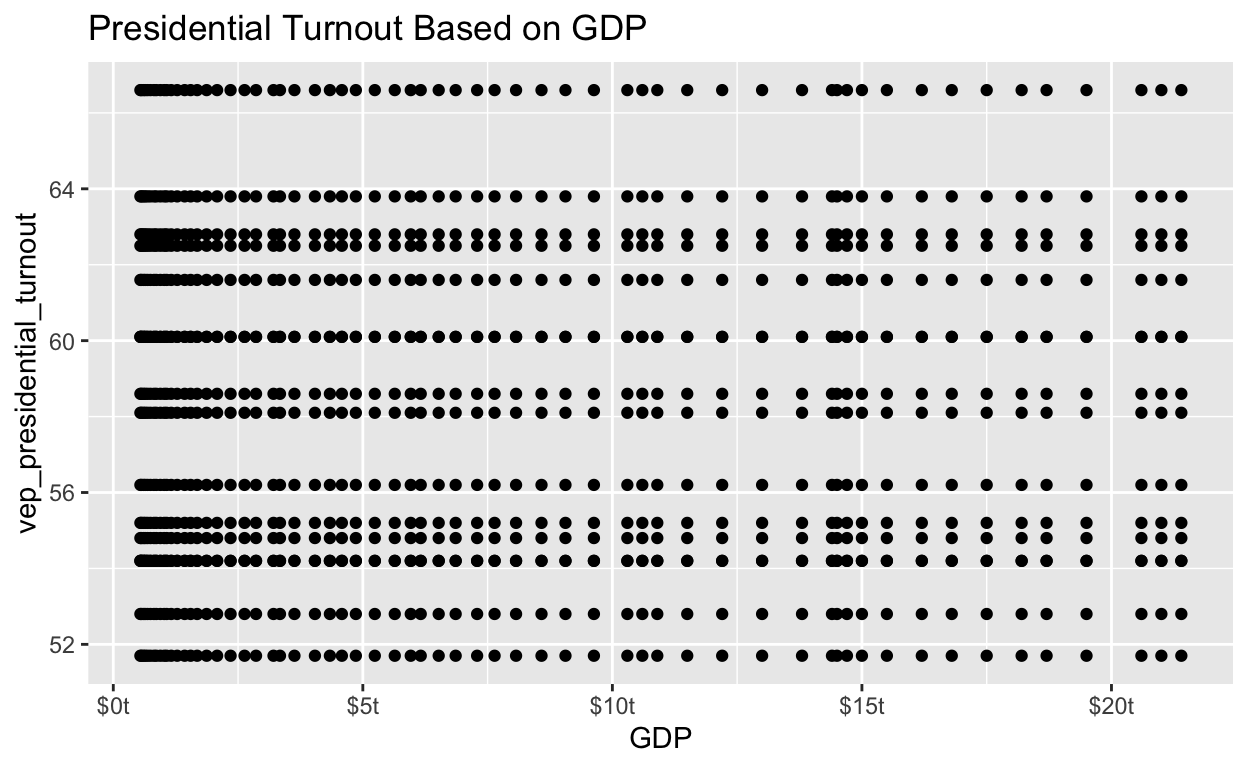
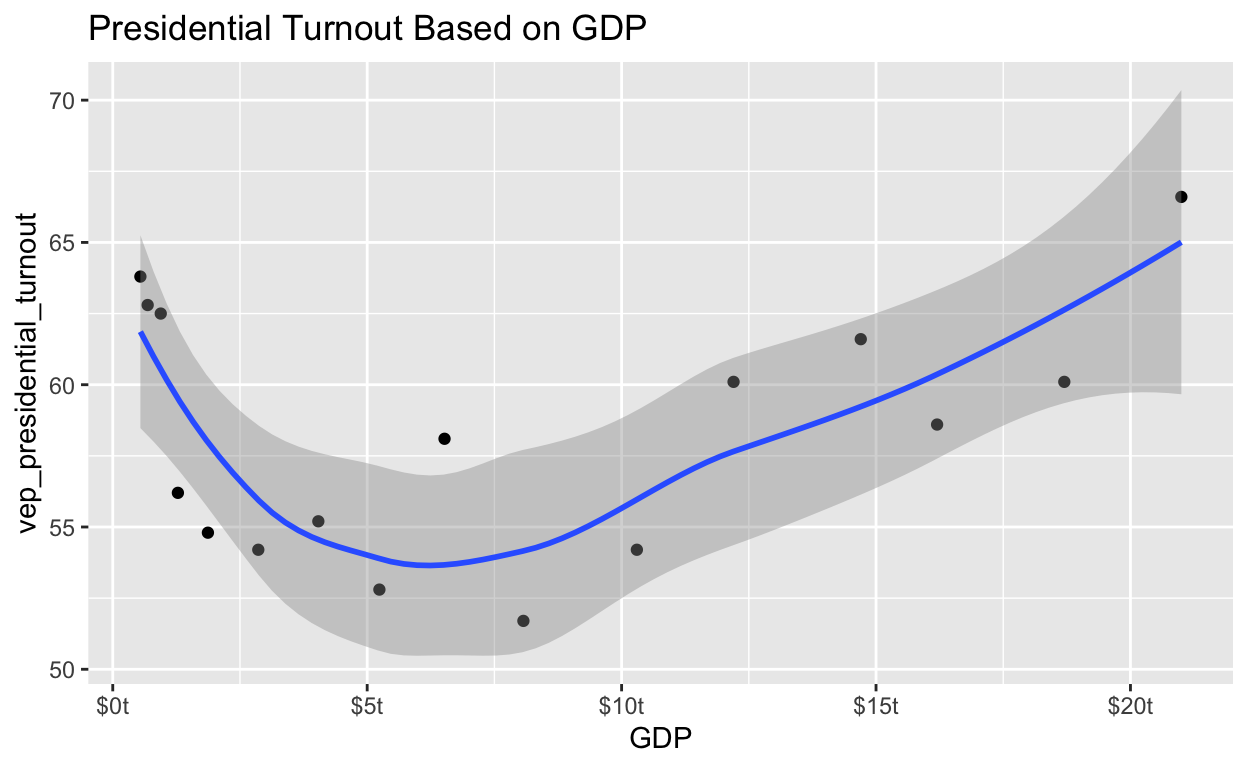
milestone 4 final commit

diff --git a/index.html b/index.html
@@ -1574,7 +1574,7 @@ code span.wa { color: #5e5e5e; font-style: italic; } /* Warning */
 </div>
 <div class="layout-chunk" data-layout="l-body">
 <div class="sourceCode">
-<pre class="sourceCode r"><code class="sourceCode r"><span><span class='co'># Pivoting GDP Data</span></span>
+<pre class="sourceCode r"><code class="sourceCode r"><span><span class='co'># Pivoting GDP Data to make Years rows</span></span>
 <span></span>
 <span><span class='va'>gdp_long</span> <span class='op'>&lt;-</span> <span class='va'>gdp</span> <span class='op'>|&gt;</span></span>
 <span>  <span class='fu'><a href='https://tidyr.tidyverse.org/reference/pivot_longer.html'>pivot_longer</a></span><span class='op'>(</span></span>
@@ -1605,8 +1605,11 @@ code span.wa { color: #5e5e5e; font-style: italic; } /* Warning */
 <div class="sourceCode">
 <pre class="sourceCode r"><code class="sourceCode r"><span><span class='co'>#Joining the Data</span></span>
 <span></span>
-<span><span class='va'>gdp_turnout</span> <span class='op'>&lt;-</span> <span class='va'>gdp_long</span> <span class='op'>|&gt;</span></span>
+<span><span class='va'>gdp_turnout</span> <span class='op'>&lt;-</span><span class='va'>gdp_long</span> <span class='op'>|&gt;</span></span>
 <span>  <span class='fu'><a href='https://dplyr.tidyverse.org/reference/cross_join.html'>cross_join</a></span><span class='op'>(</span><span class='va'>turnout</span><span class='op'>)</span></span>
+<span></span>
+<span><span class='va'>gdp_turnout_presidential</span> <span class='op'>&lt;-</span> <span class='va'>gdp_turnout</span> <span class='op'>|&gt;</span></span>
+<span>  <span class='fu'><a href='https://rdrr.io/r/base/subset.html'>subset</a></span><span class='op'>(</span><span class='va'>year</span> <span class='op'>==</span> <span class='va'>year_presidential</span><span class='op'>)</span></span>
 <span></span>
 <span><span class='va'>gdp_turnout</span></span></code></pre>
 </div>
@@ -1624,6 +1627,30 @@ code span.wa { color: #5e5e5e; font-style: italic; } /* Warning */
  9 United States USA           1960 543000000000              1992
 10 United States USA           1960 543000000000              1996
 # ℹ 966 more rows
+# ℹ 3 more variables: vep_presidential_turnout &lt;dbl&gt;,
+#   year_midterm &lt;dbl&gt;, vep_midterm_turnout &lt;dbl&gt;</code></pre>
+<div class="sourceCode">
+<pre class="sourceCode r"><code class="sourceCode r"><span><span class='va'>gdp_turnout_presidential</span></span></code></pre>
+</div>
+<pre><code># A tibble: 16 × 8
+   country_name  country_code  year     GDP year_presidential
+   &lt;chr&gt;         &lt;chr&gt;        &lt;int&gt;   &lt;dbl&gt;             &lt;dbl&gt;
+ 1 United States USA           1960 5.43e11              1960
+ 2 United States USA           1964 6.86e11              1964
+ 3 United States USA           1968 9.43e11              1968
+ 4 United States USA           1972 1.28e12              1972
+ 5 United States USA           1976 1.87e12              1976
+ 6 United States USA           1980 2.86e12              1980
+ 7 United States USA           1984 4.04e12              1984
+ 8 United States USA           1988 5.24e12              1988
+ 9 United States USA           1992 6.52e12              1992
+10 United States USA           1996 8.07e12              1996
+11 United States USA           2000 1.03e13              2000
+12 United States USA           2004 1.22e13              2004
+13 United States USA           2008 1.47e13              2008
+14 United States USA           2012 1.62e13              2012
+15 United States USA           2016 1.87e13              2016
+16 United States USA           2020 2.10e13              2020
 # ℹ 3 more variables: vep_presidential_turnout &lt;dbl&gt;,
 #   year_midterm &lt;dbl&gt;, vep_midterm_turnout &lt;dbl&gt;</code></pre>
 </div>
@@ -1647,9 +1674,13 @@ code span.wa { color: #5e5e5e; font-style: italic; } /* Warning */
 <pre class="sourceCode r"><code class="sourceCode r"><span><span class='co'># Plotting GDP against Turnout</span></span>
 <span><span class='kw'><a href='https://rdrr.io/r/base/library.html'>library</a></span><span class='op'>(</span><span class='va'><a href='https://broom.tidymodels.org/'>broom</a></span><span class='op'>)</span></span>
 <span></span>
-<span><span class='va'>gdp_turnout</span> <span class='op'>|&gt;</span></span>
+<span></span>
+<span></span>
+<span><span class='va'>gdp_turnout_presidential</span> <span class='op'>|&gt;</span></span>
+<span>  <span class='fu'><a href='https://dplyr.tidyverse.org/reference/group_by.html'>group_by</a></span><span class='op'>(</span><span class='va'>year_presidential</span><span class='op'>)</span> <span class='op'>|&gt;</span></span>
 <span>  <span class='fu'><a href='https://ggplot2.tidyverse.org/reference/ggplot.html'>ggplot</a></span><span class='op'>(</span><span class='fu'><a href='https://ggplot2.tidyverse.org/reference/aes.html'>aes</a></span><span class='op'>(</span>x <span class='op'>=</span> <span class='va'>GDP</span>, y <span class='op'>=</span> <span class='va'>vep_presidential_turnout</span><span class='op'>)</span><span class='op'>)</span> <span class='op'>+</span> </span>
 <span>  <span class='fu'><a href='https://ggplot2.tidyverse.org/reference/geom_point.html'>geom_point</a></span><span class='op'>(</span><span class='op'>)</span> <span class='op'>+</span></span>
+<span>  <span class='fu'><a href='https://ggplot2.tidyverse.org/reference/geom_smooth.html'>geom_smooth</a></span><span class='op'>(</span><span class='op'>)</span> <span class='op'>+</span></span>
 <span>  <span class='fu'><a href='https://ggplot2.tidyverse.org/reference/labs.html'>labs</a></span><span class='op'>(</span>title <span class='op'>=</span> <span class='st'>"Presidential Turnout Based on GDP"</span><span class='op'>)</span> <span class='op'>+</span></span>
 <span>  <span class='fu'><a href='https://ggplot2.tidyverse.org/reference/scale_continuous.html'>scale_x_continuous</a></span><span class='op'>(</span></span>
 <span>    labels  <span class='op'>=</span> <span class='fu'><a href='https://scales.r-lib.org/reference/label_number.html'>label_number</a></span><span class='op'>(</span>scale <span class='op'>=</span> <span class='fl'>1e-12</span>, </span>
@@ -1659,34 +1690,20 @@ code span.wa { color: #5e5e5e; font-style: italic; } /* Warning */
 </div>
 <img src="index_files/figure-html5/unnamed-chunk-6-1.png" width="624" />
 <div class="sourceCode">
-<pre class="sourceCode r"><code class="sourceCode r"><span><span class='va'>fit_1</span> <span class='op'>&lt;-</span> <span class='fu'><a href='https://rdrr.io/r/stats/lm.html'>lm</a></span><span class='op'>(</span><span class='va'>vep_presidential_turnout</span> <span class='op'>~</span> <span class='va'>GDP</span>, data <span class='op'>=</span> <span class='va'>gdp_turnout</span><span class='op'>)</span> </span>
+<pre class="sourceCode r"><code class="sourceCode r"><span><span class='va'>fit_1</span> <span class='op'>&lt;-</span> <span class='fu'><a href='https://rdrr.io/r/stats/lm.html'>lm</a></span><span class='op'>(</span><span class='va'>vep_presidential_turnout</span> <span class='op'>~</span> <span class='va'>GDP</span>, data <span class='op'>=</span> <span class='va'>gdp_turnout_presidential</span><span class='op'>)</span></span>
 <span></span>
-<span><span class='va'>fit_1</span> <span class='op'>|&gt;</span></span>
-<span>  <span class='fu'>broom</span><span class='fu'>::</span><span class='fu'><a href='https://generics.r-lib.org/reference/tidy.html'>tidy</a></span><span class='op'>(</span><span class='op'>)</span> <span class='op'>|&gt;</span></span>
-<span>  <span class='fu'><a href='https://dplyr.tidyverse.org/reference/select.html'>select</a></span><span class='op'>(</span><span class='va'>term</span>, <span class='va'>estimate</span><span class='op'>)</span> <span class='op'>|&gt;</span>  </span>
-<span>  <span class='fu'>knitr</span><span class='fu'>::</span><span class='fu'><a href='https://rdrr.io/pkg/knitr/man/kable.html'>kable</a></span><span class='op'>(</span>digits <span class='op'>=</span> <span class='fl'>2</span><span class='op'>)</span></span></code></pre>
+<span><span class='va'>fit_1</span></span></code></pre>
 </div>
-<table>
-<thead>
-<tr class="header">
-<th style="text-align: left;">term</th>
-<th style="text-align: right;">estimate</th>
-</tr>
-</thead>
-<tbody>
-<tr class="odd">
-<td style="text-align: left;">(Intercept)</td>
-<td style="text-align: right;">58.33</td>
-</tr>
-<tr class="even">
-<td style="text-align: left;">GDP</td>
-<td style="text-align: right;">0.00</td>
-</tr>
-</tbody>
-</table>
+<pre><code>
+Call:
+lm(formula = vep_presidential_turnout ~ GDP, data = gdp_turnout_presidential)
+
+Coefficients:
+(Intercept)          GDP  
+  5.690e+01    1.831e-13  </code></pre>
 </div>
-<p>Based on the results of this second visualization, we can see that any particular GDP can have any outcome of turnout. This trend holds true for both times of economic decline and times of economic success. With that being said, based on the plot there seems to be no relation between GDP and turnout in presidential elections and this is backed up by the linear regression. The linear model suggests that for a one unit increase in GDP there is no increase in voter turnout.</p>
-<div class="sourceCode" id="cb5"><pre class="sourceCode r distill-force-highlighting-css"><code class="sourceCode r"></code></pre></div>
+<p>Based on the results of this second visualization, we can see that any particular GDP can have any outcome of turnout. This trend holds true for both times of economic decline and times of economic success. With that being said, based on the plot there seems to be a slight relation between GDP and turnout in presidential elections and this is backed up by the linear regression. The linear model suggests that for a one unit increase in GDP there is a near zero increase in Presidential voter turnout. When analyzing the graph, it is important to note that there are more elections that occurred during times of relative economic decline but this may be simply due to the fact that they represent multiple decades prior to today. These low turnouts for low GDPs may be counteracting high turnouts for high GDPs, creating a near zero relation. This does not completely rule out my hypothesis because within a shortened time frame, it is possible that we will see more of a relation between GDP and voter turnout.</p>
+<div class="sourceCode" id="cb7"><pre class="sourceCode r distill-force-highlighting-css"><code class="sourceCode r"></code></pre></div>
 <!--radix_placeholder_article_footer-->
 <!--/radix_placeholder_article_footer-->
 </div>
